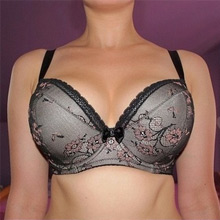
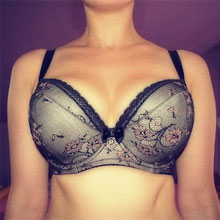
Photos retouched

diff --git a/css/style.css b/css/style.css
@@ -164,10 +164,10 @@ nav {
 	padding: 5px 0;
 	display: block;
 	width: 100%;
-	border-bottom: solid 1px rgba(9,35,36,.4);
+	border-bottom: solid 1px rgba(9,35,36,.1);
 	float: left;
 	z-index: 10000;
-	font-size: 14px;
+	font-size: 85%;
 	font-family: "HelveticaNeue-Light", "Helvetica Neue Light", "Helvetica Neue", Helvetica, Arial, "Lucida Grande", sans-serif; 
 }
 
@@ -201,7 +201,7 @@ nav .logo {
 }
 
 nav .logo img {
-	height: 30px;
+	height: 35px;
 }
 .navMain{
 	width: 960px;
@@ -496,7 +496,7 @@ filter: progid:DXImageTransform.Microsoft.gradient( startColorstr='#fc328a', end
 /*Realphotos*/
 #realphotos {
 	background: #092324;
-	padding: 20px 0 0 0 !important;
+	padding: 20px 0 40px 0 !important;
 }
 
 #realphotos header h1 {
@@ -621,7 +621,6 @@ filter: progid:DXImageTransform.Microsoft.gradient( startColorstr='#fc328a', end
 }
 
 #preorder p > a{
-	font-weight: bold;
 	
 	font-variant: small-caps;
 }
@@ -711,7 +710,7 @@ filter: progid:DXImageTransform.Microsoft.gradient( startColorstr='#fc328a', end
 }
 /*------about ---------*/
 #about {
-	background: #fc328a;
+	background: #ca0058;
 }
 .center {
 	text-align: center;
@@ -723,12 +722,12 @@ filter: progid:DXImageTransform.Microsoft.gradient( startColorstr='#fc328a', end
 
 #comments {
 	width: 580px !important;
-	background: #EBF2F2;
+	background: #fcf9fa;
 	padding: 20px;
 	border-radius: 10px;
 }
 #ourStory {
-	background: #EBF2F2;
+	background: #fcf9fa;
 	margin: px;
 	border-radius: 10px;
 }
@@ -739,7 +738,7 @@ filter: progid:DXImageTransform.Microsoft.gradient( startColorstr='#fc328a', end
 	margin-left: 20px;
 }
 #about h1 {
-	color: #EBF2F2;
+	color:  #fcf9fa;
 }
 #ourStory .face {
 	width: 70px;

diff --git a/table.html b/table.html
@@ -414,7 +414,7 @@ $(document).ready(function(){
 		</section>
 
 		<nav id="topMenu">
-			<a href="#container" id="home" class="logo"><img src="img/css/logo.png"></a>
+			<a href="#container" id="home" class="logo"><img src="img/css/logo.png" ></a>
 			<div class="navMain">
 				<a class="grid1-6" href="#mainGallery" id="toMainGallery">OUR BRAS</a>
 				<a class="grid1-6" href="#sizes" id="toSizes">FIND YOUR SIZE</a>
@@ -590,7 +590,7 @@ $(document).ready(function(){
 
 		<section class="grid4" id="realphotos">
 			<header>
-				<h2>Amazing Fit for the Curvy & Fabulous</h2>
+				<h2>Amazing fit for the curvy & fabulous</h2>
 				<h1>As Seen on Real Women!</h1>
 			</header>
 			<div class="inner">
